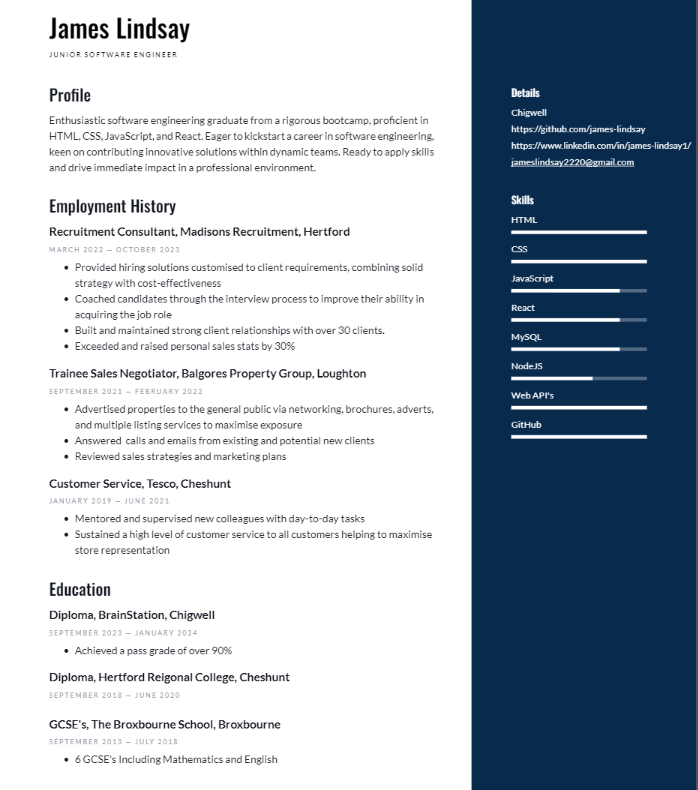
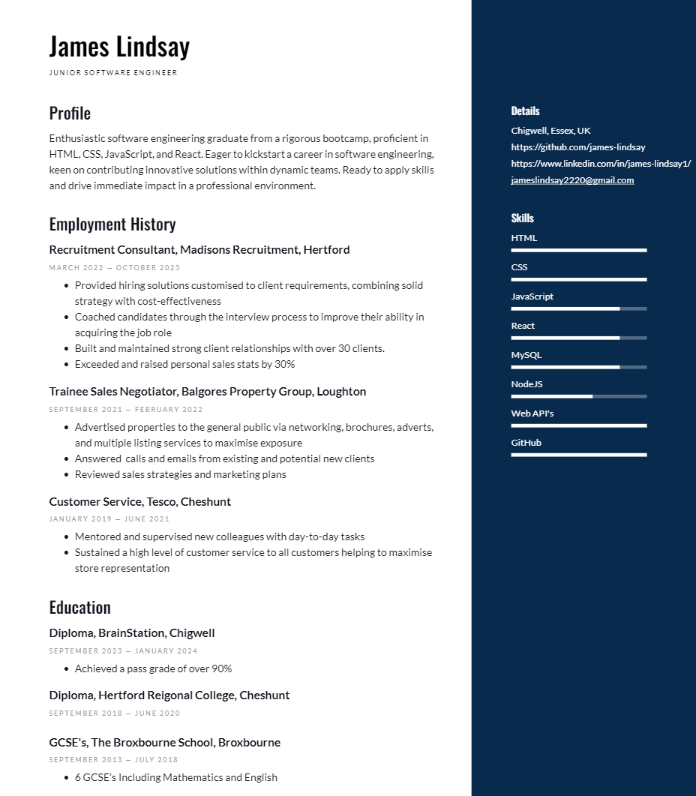
added changed to cv page, home, header, projects and projects page to stop images from being squashed in different widths

Changed region(s): [[0.0603, 0.0304, 0.6336, 1.0], [0.7241, 0.0, 1.0, 1.0], [0.6638, 0.0, 0.694, 1.0]]

diff --git a/src/components/ProjectsPage/ProjectsPage.js b/src/components/ProjectsPage/ProjectsPage.js
@@ -156,45 +156,7 @@ const ProjectPage = ({ projects }) => {
             />
           </>
         )}
-        {project.id === 4 && (
-          <>
-            <img
-              src={project.image_Home}
-              alt="BS Home 1"
-              className="project-image"
-            />
-            <img
-              src={project.image_Home2}
-              alt="BS Home2"
-              className="project-image"
-            />
-            <img
-              src={project.image_Gallary}
-              alt="BS Gallary"
-              className="project-image"
-            />
-            <img
-              src={project.image_About}
-              alt="BS About"
-              className="project-image"
-            />
-            <img
-              src={project.image_Shows}
-              alt="BS Shows"
-              className="project-image"
-            />
-            <img
-              src={project.image_Comments}
-              alt="BS Comments"
-              className="project-image"
-            />
-            <img
-              src={project.image_Footer}
-              alt="BS Footer"
-              className="project-image"
-            />
-          </>
-        )}
+
         {project.id === 5 && (
           <>
             <img

diff --git a/src/components/ProjectsPage/ProjectsPage.scss b/src/components/ProjectsPage/ProjectsPage.scss
@@ -10,24 +10,36 @@
 .project-title {
     font-size: 24px;
     margin-bottom: 10px;
-    color: White;
+    color: white;
 }
 
 .project-description {
     font-size: 16px;
-    color: White;
+    color: white;
     margin-bottom: 20px;
 }
 
 .project-images {
     display: grid;
-    grid-template-columns: repeat(auto-fit, minmax(600px, 1fr));
     grid-gap: 40px;
 }
 
 .project-image {
     width: 100%;
+    min-width: 200px;
     height: auto;
     border-radius: 10px;
     box-shadow: 0px 2px 5px rgba(0, 0, 0, 0.1);
+}
+
+@media screen and (min-width: 768px) {
+    .project-images {
+        grid-template-columns: repeat(auto-fit, minmax(300px, 1fr));
+    }
+}
+
+@media screen and (min-width: 1024px) {
+    .project-images {
+        grid-template-columns: repeat(auto-fit, minmax(700px, 1fr));
+    }
 }

diff --git a/src/components/Home/Home.js b/src/components/Home/Home.js
@@ -10,6 +10,16 @@ const Home = () => {
         <Link to="/projects" className="btn">
           View Projects
         </Link>
+        <p>
+          "I am a dynamic and self-motivated software engineering enthusiast
+          with a strong foundation acquired through intensive bootcamp training.
+          Eager to embark on a fulfilling career in software engineering,
+          leveraging proficiency in HTML, CSS, JavaScript, and REST APIs to
+          drive innovation and contribute effectively to dynamic development
+          teams. Seeking opportunities to apply acquired skills and knowledge in
+          a professional setting, with a passion for continuous learning and
+          immediate availability to contribute to impactful projects."
+        </p>
       </div>
     </section>
   );

diff --git a/src/App.js b/src/App.js
@@ -37,6 +37,7 @@ import TPAbout from "./Images/TP-About.png";
 import TPDetails from "./Images/TP-Details.png";
 import TPHome from "./Images/TP-Home.png";
 import TPPostJob from "./Images/TP-Postjob.png";
+import CV from "./components/CV/CV";
 
 function App() {
   const projects = [
@@ -110,7 +111,7 @@ function App() {
         <Routes>
           <Route path="/" element={<Home />} />
           <Route path="/projects" element={<Projects projects={projects} />} />
-          <Route path="/contact" element={<Contact />} />
+          <Route path="/CV" element={<CV />} />
           <Route
             path="/projects/:id"
             element={<ProjectPage projects={projects} />}

diff --git a/src/components/Projects/Projects.js b/src/components/Projects/Projects.js
@@ -4,8 +4,8 @@ import "./Projects.scss";
 const Projects = ({ projects }) => {
   return (
     <section className="projects">
-      <h2>Projects</h2>
-      <p className="Projects__text">Click on project to view Images</p>
+      <h2 className="project__header">Projects</h2>
+      <p className="Projects__text">Click on a project to view Images</p>
       <div className="project-list">
         {projects.map((project) => (
           <Link

diff --git a/src/components/Header/Header.js b/src/components/Header/Header.js
@@ -16,13 +16,8 @@ const Header = () => {
           </Link>
         </li>
         <li className="navbar__item">
-          <Link to="/cv" className="navbar__link">
+          <Link to="/CV" className="navbar__link">
             CV
-          </Link>
-        </li>
-        <li className="navbar__item">
-          <Link to="/Contact" className="navbar__link">
-            Contact
           </Link>
         </li>
       </ul>

diff --git a/src/components/Home/Home.scss b/src/components/Home/Home.scss
@@ -1,5 +1,5 @@
 .home {
-    background-color: #f0f0f0;
+    background-color: #36393f;
     padding: 100px 0;
     text-align: center;
 }
@@ -12,11 +12,13 @@
 .home h1 {
     font-size: 48px;
     margin-bottom: 20px;
+    color: white;
 }
 
 .home p {
     font-size: 24px;
     margin-bottom: 40px;
+    color: white;
 }
 
 .btn {

diff --git a/src/components/CV/CV.js b/src/components/CV/CV.js
@@ -1,0 +1,11 @@
+import CVimg from "../../Images/CV.png";
+
+function CV() {
+  return (
+    <div>
+      <img src={CVimg} alt="CV"></img>
+    </div>
+  );
+}
+
+export default CV;

diff --git a/src/components/Header/Header.scss b/src/components/Header/Header.scss
@@ -8,6 +8,7 @@
     margin: 0;
     padding: 0;
     display: flex;
+    justify-content: center;
 }
 
 .navbar__item {

diff --git a/src/components/Projects/Projects.scss b/src/components/Projects/Projects.scss
@@ -41,3 +41,7 @@
 .Projects__text{
     color: white;
 }
+
+.project__header{
+    color: white;
+}
